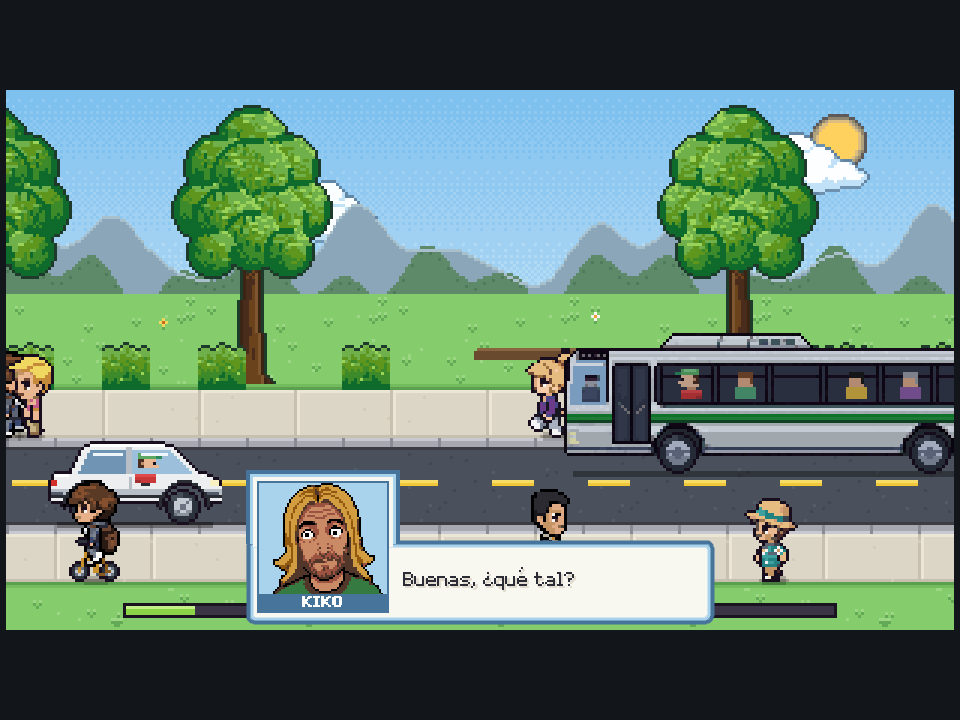
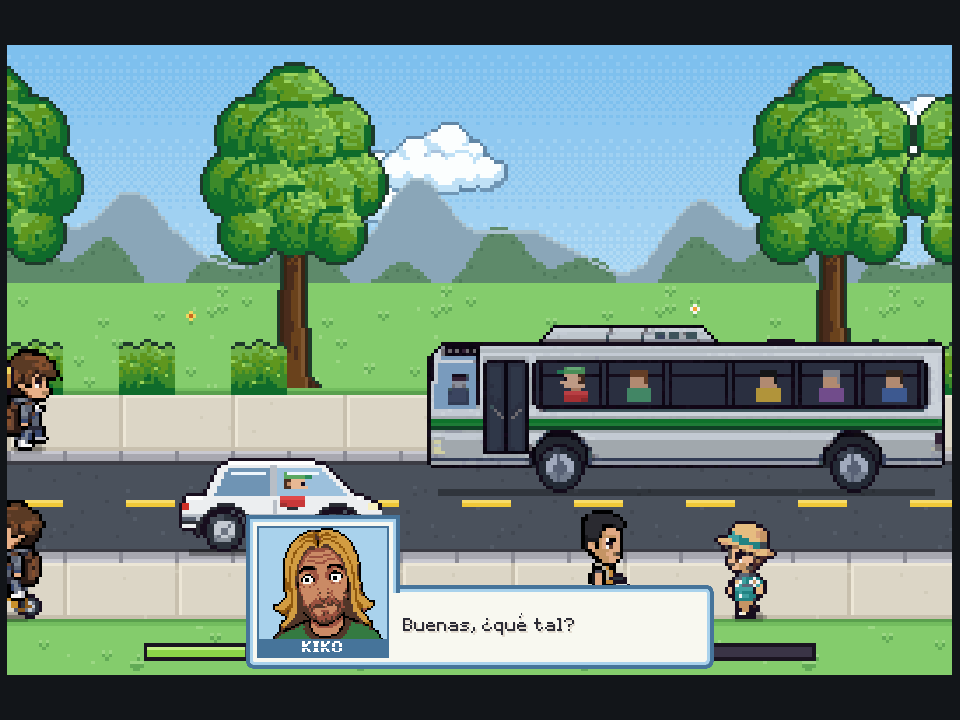
UI: el saliente del busto sin escalón en la unión (90° de verdad)
El pie del saliente baja a SAL_PIE (5 u) por dentro del borde de arriba
del cuadro, pasada la curva de esa esquina (radio 4 de la línea y el
filete, 4,5 del fondo), así que no asoma ni medio píxel de ella y la
unión queda recta; la línea y el filete acaban a 4 u, donde sus iguales
del canto horizontal del cuadro ya van rectos.

Capturas de docs regeneradas y CHANGELOG y notas al día.

Claude-Session: https://claude.ai/code/session_01WWCwQsjgK3rvw6gQoSEGYZ

diff --git a/ribera-verde/CLAUDE.md b/ribera-verde/CLAUDE.md
@@ -151,7 +151,7 @@ Juego web de un solo archivo: HTML, CSS y JavaScript sin frameworks ni dependenc
 - **Licencias de terceros (0.74):** CRÉDITOS → LICENCIAS trae Godot (MIT), las tres fuentes con su texto entero y el bloque de las bibliotecas de Android del AAB (Play Billing, Play Games v2, AndroidX y Sentry) con sus avisos y el texto de la Apache 2.0 y de la MIT (`godot/licencias/`, en el `include_filter` del export); prueba `tests/licencias.gd`.
 - **El cuadro de texto, de 4 líneas como mucho (0.74, lo pidió el usuario: «que el cuadro de texto únicamente pueda tener máximo 4 líneas… o igual bajarle un poco el tamaño de la letra»; con `Datos.CAL`):** la caja mide siempre `DLG_LINEAS` = 4 líneas (`_pon_dlg_txt`) y lo que no cabe se parte en páginas que se pasan con A (`paginas_dlg`, desde `say`), cortando por palabras; si una página sigue sin caber, el cuerpo baja de `DLG_FS` (9,5 u) a `DLG_FS_MIN` (7,5 u) de medio en medio con el ancho ya medido del Label (`_mide_dlg`, desde `_coloca`), y si ni al mínimo cabe se quita el tope de alto y la caja crece, que es mejor que cortar texto; las líneas se cuentan como las parte el Label, por palabras y contando las vacías (`_lineas_dlg`). Prueba `tests/dialogo_lineas.gd` (los 120 textos más largos del juego, con retrato y sin él, página a página, con `get_line_count`).
 - **El cuadro de texto y el menú (0.74, con `Datos.CAL`):** la cabecera del menú arranca en la misma columna que las etiquetas (espaciador de `10 * us + ic_w`, con la separación del HBox a 0: el tema metía 4 u) y su texto de la derecha acaba donde las cifras (la fila las pone pegadas al borde, así que ahí no va espaciador); `ic_w` se calcula antes de pintar el título. La ficha entera (marco y cinta del nombre) va centrada en alto en la caja, con el reparto redondeado (`roundf` en `_coloca`) y el alto del cuadro redondeado a un múltiplo de 4 u en `_pon_dlg_txt`, para que la caja mida un número par de u y el aire de arriba y el de abajo sean iguales al píxel (40 y 40, antes 40 y 36); el aire de la izquierda no es una constante, es el que le queda a la ficha por arriba y por abajo (`_aire_ficha`, del alto previsto del cuadro de 4 líneas con `_alto_dlg_u`; `RETRATO_M` 8 u es solo el mínimo), así que el busto queda a la misma distancia de los tres cantos en cualquier resolución (lo pidió el usuario: «desde el borde hasta el sprite tendría que haber la misma distancia que del sprite arriba y del sprite abajo»; a 2400 × 1080, 37/37/37 px) y el margen del texto sale de ese mismo aire (`_ancho_dlg`, para que la paginación cuadre): bajarla media cinta para igualar el eje del busto con el del texto se probó y a la vista quedaba peor —la cinta se pegaba al borde de abajo—, así que se quitó (lo dijo el usuario: «el sprite no está centrado donde debería… hay píxeles de aire que no los cuentas»); `tests/capturas_ui.gd` mide el aire de arriba y el de abajo de la ficha y la caja lleva 11 u de margen vertical (antes 8) para que el texto tenga aire como la foto. El texto del diálogo va centrado en la caja (`vertical_alignment` + `size_flags_vertical` en `_estilos`: el alto lo manda el busto) y la máquina de escribir descubre las letras con `visible_characters`, no reescribiendo `dlg_txt.text`, para que el bloque no se mueva.
-- **El cuadro del diálogo con busto, a la medida, y el contorno que rodea la foto (con `Datos.CAL`):** con retrato, el alto mínimo del cuadro lo ponía la ficha (`rw + 2 + 2 · RETRATO_M`), así que medía 82 u dijera lo que dijera; ahora el mínimo es el mismo con busto y sin él (24 u) y el alto lo manda el texto (medido: 42 u con una línea, 54 con dos, 78-82 con cuatro). La ficha deja de ir centrada en alto y se ancla al pie del cuadro, a `RETRATO_M` del canto por la izquierda y por abajo (`RETRATO_M` = `SAL_CANTO` 3,5 + `SAL_AIRE` 2 = 5,5 u, para que el saliente caiga justo en el lado izquierdo del cuadro); el busto que no cabe asoma por arriba y el contorno sube a rodearlo (`dlg_sal`, un `Panel` entre el cuadro y la ficha en el árbol, con la clase `Saliente`: las tres capas de `Caja` —línea 2 u, filete 1,5, fondo— sin el canto de abajo, desde `SAL_AIRE + SAL_CANTO` por encima del marco hasta `SAL_CANTO` por debajo del borde de arriba del cuadro, cuyo canto tapa). Las esquinas y el ángulo de la unión son de 90° (lo dijo el usuario: «la esquina y el ángulo tiene que ser de 90 grados. No puede ser ahí como la mini entrada esa que tiene»): sin radio y con `anti_aliasing = false` (el redondeo y el suavizado dejaban medios tonos y una muesca en la unión), y la línea y el filete acaban 1,5 u antes del pie, justo donde doblan con los suyos del canto horizontal del cuadro. Cuando la página llena el cuadro, el busto cabe, `dlg_sal` se esconde y la caja es el rectángulo de siempre. `_aire_ficha` y `_alto_dlg_u` desaparecen (el margen es constante). Pruebas: `tests/retratos.gd` (482 comprobaciones: el pie, el aire de la izquierda, el busto asomando, el saliente pegado al lado izquierdo del cuadro con el mismo canto por los tres lados y el pie dentro, su sitio en el árbol, y el caso contrario con la página llena) y `tests/capturas_ui.gd` (lo mismo medido en las doce pantallas).
+- **El cuadro del diálogo con busto, a la medida, y el contorno que rodea la foto (con `Datos.CAL`):** con retrato, el alto mínimo del cuadro lo ponía la ficha (`rw + 2 + 2 · RETRATO_M`), así que medía 82 u dijera lo que dijera; ahora el mínimo es el mismo con busto y sin él (24 u) y el alto lo manda el texto (medido: 42 u con una línea, 54 con dos, 78-82 con cuatro). La ficha deja de ir centrada en alto y se ancla al pie del cuadro, a `RETRATO_M` del canto por la izquierda y por abajo (`RETRATO_M` = `SAL_CANTO` 3,5 + `SAL_AIRE` 2 = 5,5 u, para que el saliente caiga justo en el lado izquierdo del cuadro); el busto que no cabe asoma por arriba y el contorno sube a rodearlo (`dlg_sal`, un `Panel` entre el cuadro y la ficha en el árbol, con la clase `Saliente`: las tres capas de `Caja` —línea 2 u, filete 1,5, fondo— sin el canto de abajo, desde `SAL_AIRE + SAL_CANTO` por encima del marco hasta `SAL_PIE` (5 u) por debajo del borde de arriba del cuadro, pasada la curva de esa esquina, cuyo canto tapa entero). Las esquinas y el ángulo de la unión son de 90° (lo dijo el usuario: «la esquina y el ángulo tiene que ser de 90 grados. No puede ser ahí como la mini entrada esa que tiene»): sin radio y con `anti_aliasing = false` (el redondeo y el suavizado dejaban medios tonos y una muesca en la unión), y la línea y el filete acaban a 4 u del borde de arriba del cuadro, justo donde los suyos del canto horizontal ya van rectos. Cuando la página llena el cuadro, el busto cabe, `dlg_sal` se esconde y la caja es el rectángulo de siempre. `_aire_ficha` y `_alto_dlg_u` desaparecen (el margen es constante). Pruebas: `tests/retratos.gd` (482 comprobaciones: el pie, el aire de la izquierda, el busto asomando, el saliente pegado al lado izquierdo del cuadro con el mismo canto por los tres lados y el pie dentro, su sitio en el árbol, y el caso contrario con la página llena) y `tests/capturas_ui.gd` (lo mismo medido en las doce pantallas).
 - **Los cuadros de texto a la medida y la pantalla de inicio (0.80, con `Datos.CAL`):** el cuerpo del diálogo reserva las líneas que ocupa de verdad la página, de 1 a `DLG_LINEAS` (`_cuerpo_dlg` las cuenta al poner el texto, `_pon_dlg_txt(px, lineas)` fija el alto —múltiplo de 4 u—, `_alto_dlg_u` medía con las reservadas y el mínimo de la caja bajó de 44 a 24 u). Las líneas se cuentan con el servidor de texto, no con el Label, que aún no ha hecho el corte en el fotograma en que se le pone el texto (`_lineas_ts`: `get_multiline_string_size` con `BREAK_MANDATORY|WORD_BOUND|ADAPTIVE|TRIM_EDGE_SPACES`, cada `\n` por su cuenta, sobre el texto entero de la página y no sobre lo mecanografiado). En el título, el texto de cada pastilla va centrado al píxel (`roundf`) en el hueco que dejan las flechas ◀ ▶ y, si no cabe, se le baja el cuerpo (`_menu_titulo`); y un velo sobre la pantalla, más cerrado en la mitad de abajo, deja leer el rótulo y los botones sobre la calle del fondo (`_pinta_titulo`, `pantalla.get_global_rect()`). Pruebas: `tests/dialogo_lineas.gd` (597 páginas; altos 210 · 270 · 350 · 410 px sin busto) y `tests/titulo_ui.gd` (los píxeles del texto de los tres botones en la imagen: centrados a ±2 px y sin tocar las flechas).
 - **El maquetado de la interfaz (0.72, con `Datos.CAL`):** el menú de un `ask` se apoya encima del diálogo, no a 49 u del suelo (`_coloca` en `ui.gd`); el HUD se esconde mientras hay un menú `full` o `start` y vuelve al cerrarlo (`hud_tapado`: `hud_pon` lo respeta, que el bucle llama a `update_hud` cada fotograma); los mandos, más opacos para leerse sobre el mapa (`MANDO_ALFA`, `MANDO_CANTO`); la marca ▲▼ de los menús, de 8,5 u (`FLECHA_H`, `FLECHA_FS`); el pie de los menús reserva una línea, no dos (`desc_min()`); en las listas, las filas sin icono reservan su hueco y la flecha de las secciones («▸ Semillas») va en la columna del icono (`ic_w` en `_pinta_menu`); las cajas de vida del combate no se apartan de MÓVIL, oculto en combate (`be_r`). `tests/capturas_ui.gd` (12 pantallas) lo mide con `_mira_maquetado`: el menú no pisa el diálogo, el HUD no sale con el menú, las etiquetas de una lista arrancan en la misma columna y la marca ▲▼ mide 8 u o más.
 - **El aparcamiento, con entrada desde la calle (con `Datos.CAL`):** `montar_aparcamiento` (`calle.gd`) traza, cuando el rectángulo de 3 × 4 no toca ninguna vía (`APARC_VIA`: road, hormigón, pista, roto), un carril de una casilla desde la boca de su pasillo (x0 + 2, arriba; si no, abajo) hasta la vía más cercana o hasta una puerta de carretera del mapa (`_aparc_puertas`, `CARRETERAS.puertas`), por casillas que se andan, sin objetos y fuera de los edificios, de `APARC_CARRIL` como mucho; se guarda en `_aparc_c` y sin CAL vuelve el suelo de antes. El carril y el suelo del aparcamiento son `roadX` (el asfalto de cruce del mosaico): hasta la 0.74 eran `road`, que no existe en el atlas, y las casillas salían negras (lo vio el usuario: «¿Y ese pedazo de error en el mapa?»); `tests/suelo_negro.gd` comprueba en los 90 mapas montados que ninguna casilla de `g` se queda sin arte de suelo y sin un edificio que la tape. Y como las casillas de un edificio (`wall_`, `roofT_`, `roofB_`, `win_`, `door_`) no tienen arte de suelo, donde la fachada es transparente (el hueco entre las dos torres de la parroquia de Zorroza) salía el negro de debajo (lo vio el usuario: «el sprite de la iglesia está como mal hecho»): `_suelo_casilla` pinta antes el suelo de la casilla pisable más cercana, hacia abajo primero (`_tile_hay`, `_suelo_base` en `pinta.gd`); `tests/negro_render.gd` pinta 27 mapas enteros y no admite ni un cuadro liso de 8 × 8 muy oscuro. Un aparcamiento nuevo no necesita nada más; `tests/aparc_bilbao.gd` sigue pidiendo hueco con aire y, en los pueblos, a 12 casillas de la parada.

diff --git a/CLAUDE.md b/CLAUDE.md
@@ -95,7 +95,7 @@ informe técnico directo + código refactorizado, sin relleno.
 - La sala de cultivo de KAIA (lo pidió el usuario: «incluso molaría tener un cultivo finalmente en la nueva asociación de KAIA», «tiene que tener lógica con el suelo» y «como en casa, cultivo con carpas, pero más grandes de primeras… después como en la nave en esa misma habitación, ya con posibilidad de poner a alguien a trabajar ahí»; solo Godot, con `Datos.CAL`): por la puerta (15, 1) del club, con la licencia (`S.mar.lic`); pasillo con el suelo del club y zona de cultivo con el del grow (16 × 10); fase 1, hasta cuatro kits de carpa de 240 × 240 con dos LED de 720 W, extractor y goteo, nueve plazas, 3.180 € por la cuenta y al día siguiente, ordenables desde el cuadro solo sobre su suelo y sin solaparse (reglas `zona` y `solapa` en `cabe_pieza`); fase 2, la obra de 45.000 € (las carpas, de segunda mano al 40 %; 5 días) con seis mesas de la nave, tanque y riego, que lleva un trabajador de rol `kaia` (45 €/día) hasta el almacén de KAIA (`tools/kaia_cult.py`, `src/kaiacult.gd`, `S.kc`, `kaia_carpa.py`); prueba `tests/kaia_cult.gd`. Nada encima de nada (lo pidió el usuario: «No quiero que ningún objeto de pared o suelo se superponga sobre otro»): `tests/solapes.gd` en todos los interiores y `tools/solapes.py`.
 - KAIA por niveles, madres, sala fría, manicura, billar y translúcido (lo pidió el usuario; solo Godot, con `Datos.CAL`): KAIA con cuatro carpas de 2 × 2, dos de 4 × 2 y una de 4 × 4 que conviven (`KAIA_CULT.niv`, `kc_sube`, `kc_off`) y luego la carpa de sala que se entra (`f2.carpa`, `cult-sala`) con ocho mesas de flujo y reflujo, su drenaje (`tubos_dren`) y la vista de cada mesa (`vista_mesas`, `MESA_KV`; arte del generador de sprites en `sprgen_kaia.py`); rehecha como pidió el usuario: las carpas cerradas como las de casa (`kaia_carpa.py`, de la de 150), su tubo a la pared (`tubos_ext`), la sala como la nave (`mesaN`), el riego y el drenaje sin cruzar pasillos (`red_riego`, `tubos_dren`) y la vista de la mesa de frente con el LED doble de casa (`MESAK_*`); la carpa de sala a su medida por fuera y la habitación por dentro, con el tanque, el programador y el depósito de recogida fuera, en el paso de delante (`f2.fuera`, `red_fuera`, `kaia_riego.py`), y el depósito del goteo de cada carpa a su lado, fuera de ella (`dep`, `depK`/`depKd`, `tubos_dep`); las carpas con puerta lateral, ventanas de malla y la boca del intractor (lo pidió el usuario: «en esas carpas pues hay puertas laterales, ventilaciones, agujeros para extractor, intractor y eso»), cada depósito a su tamaño (100, 200 y 400 L: `depK`, `depKm`, `depKl`) y, en la vista C, la puerta, la ventana y el intractor por el lado con más sitio libre junto a la carpa (si empatan, el del depósito) y el extractor arriba por el otro, donde sale su tubo (lo pidió el usuario: «dependiendo de dónde esté la mesa colocada»; `kc_lado`, `kc_servicio`, `kc_filtro`, `kc_ux`, `kcsi`/`kcmi`/`kcli`, a mano en `tools/sprites/a-mano/kaia_vc.py`; el depósito, fuera: solo su manguera; prueba `tests/kaia_vista.gd`); las 49 escenas de las extracciones, del laboratorio y de la manicura, animadas con el generador de sprites (`animate_image`, 4 fotogramas; `kaia_pl_anim.png`, `Escena.pl_t`, `anim.json`); el armario de las madres por dentro (`vista_madres`); la sala fría del sótano con las máquinas de extracción y más rendimiento (`FRIA`, `tools/sala_fria.py`, `src/salafria.gd`); la manicura en tres barras con su escena (`MANICURA.pasos`, escena `mani`); el billar con puntería fina, efecto en la blanca y rival que se ajusta (`EFECTO`, `B8_PASO`, `S.b8aj`); y lo que tapa al protagonista al 45 % (`tapa_pj`) —las piezas seguidas de un mueble, juntas, y sin destellos: `tapa_obj`, `_tapa_mem`, `TAPA_FILA`; prueba `tests/tapa_mapas.gd`—; pruebas `tests/sala_fria.gd`, `manicura.gd`, `madres_vista.gd`, `billar8_tiro.gd`, `translucido.gd`.
 - Los cuadros de texto a la medida y la pantalla de inicio (0.80, lo dijo el usuario: «los cuadros de texto no se adaptan al texto cuando es menor del máximo no?» y «la pantalla de inicio deja que desear además de que los textos no está centrados»; solo Godot, con `Datos.CAL`): el cuadro de diálogo reserva las líneas que ocupa de verdad la página, de 1 a `DLG_LINEAS` (`_cuerpo_dlg`, `_pon_dlg_txt(px, lineas)`, `_alto_dlg_u`, `_lineas_ts` con el servidor de texto), y en el título el texto de cada pastilla va centrado al píxel en el hueco de las flechas ◀ ▶, con un velo sobre la calle del fondo para que se lea (`_menu_titulo`, `_pinta_titulo`); pruebas `tests/dialogo_lineas.gd` (597 páginas) y `tests/titulo_ui.gd` (nueva).
-- El cuadro del diálogo con busto, a la medida y con el contorno rodeando la foto (lo dijo el usuario: «me da la sensación que el cuadro de texto es siempre igual y que se adapta el texto al cuadro. Pero tiene que ser quid pro quo» y «la que más me cuadra es la C, pero… que haga como el contorno por encima y por el lado izquierdo y derecho de la foto»; solo Godot, con `Datos.CAL`): con retrato, el alto del cuadro ya no lo manda la ficha (de 82 u siempre a 42 · 54 · 78 según el texto); la ficha se ancla al pie, a `RETRATO_M` (`SAL_CANTO` 3,5 + `SAL_AIRE` 2) del canto por la izquierda y por abajo, y el busto que no cabe asoma por arriba con el contorno subiendo a rodearlo por arriba y por los dos lados (`dlg_sal`, clase `Saliente` en `ui.gd`: las tres capas de la caja sin el canto de abajo, el lado izquierdo en el del cuadro y el pie metido en él; esquinas y ángulo de 90°, sin radio ni antialias, lo dijo el usuario: «la esquina y el ángulo tiene que ser de 90 grados»; sin saliente cuando el busto cabe); pruebas `tests/retratos.gd` (482) y `tests/capturas_ui.gd`.
+- El cuadro del diálogo con busto, a la medida y con el contorno rodeando la foto (lo dijo el usuario: «me da la sensación que el cuadro de texto es siempre igual y que se adapta el texto al cuadro. Pero tiene que ser quid pro quo» y «la que más me cuadra es la C, pero… que haga como el contorno por encima y por el lado izquierdo y derecho de la foto»; solo Godot, con `Datos.CAL`): con retrato, el alto del cuadro ya no lo manda la ficha (de 82 u siempre a 42 · 54 · 78 según el texto); la ficha se ancla al pie, a `RETRATO_M` (`SAL_CANTO` 3,5 + `SAL_AIRE` 2) del canto por la izquierda y por abajo, y el busto que no cabe asoma por arriba con el contorno subiendo a rodearlo por arriba y por los dos lados (`dlg_sal`, clase `Saliente` en `ui.gd`: las tres capas de la caja sin el canto de abajo, el lado izquierdo en el del cuadro y el pie metido en él hasta `SAL_PIE` 5 u, pasada la curva de la esquina; esquinas y ángulo de 90°, sin radio ni antialias, lo dijo el usuario: «la esquina y el ángulo tiene que ser de 90 grados»; sin saliente cuando el busto cabe); pruebas `tests/retratos.gd` (482) y `tests/capturas_ui.gd`.
 - El maquetado de la interfaz, repasado (0.72, lo preguntó el usuario: «el maquetado de la UI sería posible analizarlo y mejorarlo?»; solo Godot, con `Datos.CAL`): el menú de una pregunta encima del diálogo y no tapándolo, el HUD escondido mientras hay un menú que ya dice la fecha y el dinero, los mandos opacos para leerse sobre el mapa, la marca ▲▼ de los menús más grande, el pie de los menús sin la línea de aire reservada y las listas con el borde izquierdo recto (`ui.gd`; `tests/capturas_ui.gd`, 12 pantallas con `_mira_maquetado`, 0 cortes; con el código de antes, 9).
 - Ni un agujero negro en el suelo (lo vio el usuario: «¿Y ese pedazo de error en el mapa?»; solo Godot, con `Datos.CAL`): el carril de entrada y el suelo del aparcamiento se ponían con la clave `road`, que no existe en el atlas, y `_arte_tile` dejaba la casilla sin pintar (negra); ahora `roadX`, el asfalto de cruce del mosaico, que sigue contando como vía (`APARC_VIA` va por `begins_with`); prueba `tests/suelo_negro.gd`: en los 90 mapas montados, ninguna casilla de `g` sin arte de suelo y sin edificio que la tape; y donde la fachada de un edificio es transparente (el hueco entre las torres de la parroquia de Zorroza) también salía el negro (lo vio el usuario: «el sprite de la iglesia está como mal hecho»): `_suelo_casilla` pinta antes el suelo de la casilla pisable más cercana (`_tile_hay`, `_suelo_base` en `pinta.gd`), con `tests/negro_render.gd` (27 mapas enteros pintados, ni un cuadro liso de 8 × 8 oscuro).
 - El letrero de los clubs, entero (lo dijo el usuario: «pues el letrero es importante»; solo Godot): el sprite de la puerta cubre las 32 últimas filas del edificio, así que ningún rótulo de fachada puede caer ahí; los de encima de la puerta suben con su fachada (`FACHADA` en `tools/sprites/a-mano/puertas_altas.py`: también los clubs de Puerto Viejo y Valdehierro, con su farol y su aplique) y el del Casco Viejo pasa al estuco de encima del portal (`locales.py`, donde las puertas se recortan ya en su sitio, sin `CORRE`); `ROTULOS` en `tests/puertas_libres.gd` lo comprueba.

diff --git a/ribera-verde/CHANGELOG.md b/ribera-verde/CHANGELOG.md
@@ -6,7 +6,7 @@
 
 - **Con busto, el cuadro ya no mide siempre lo mismo.** Desde la 0.80 el cuadro se ajustaba a las líneas del texto, pero solo sin retrato: con busto, el alto mínimo lo ponía la ficha (`rw + 2 + 2 · RETRATO_M`), así que cualquier frase salía en una caja de 82 u con el texto flotando. Ahora el mínimo es el mismo con busto y sin él (24 u con `Datos.CAL`) y el alto lo manda el cuerpo: medido, 42 u con una línea, 54 con dos y 78-82 con cuatro, donde antes eran 82 siempre.
 - **La ficha, anclada al pie.** El retrato deja de ir centrado en alto: se apoya en el pie del cuadro, a `RETRATO_M` del canto por la izquierda y por abajo, con su marco y la cinta del nombre como siempre. Lo que no cabe en lo que mide el cuadro asoma por arriba, que es lo que el usuario eligió de las tres variantes que se le mandaron.
-- **Y el contorno sube a rodearlo.** El busto no se recorta ni queda cruzado por la línea de arriba del cuadro: un saliente (`dlg_sal`, clase `Saliente`) pinta las tres capas de la caja —línea `#46749a` de 2 u, filete `#a9d2ec` de 1,5 y fondo— sin el canto de abajo, desde encima de la ficha hasta dentro del cuadro. Su fondo tapa la línea de arriba en ese tramo y sus dos verticales se juntan con ella, así que el contorno sale de una pieza, con el lado izquierdo del saliente justo en el lado izquierdo del cuadro (`SAL_CANTO` 3,5 u de canto + `SAL_AIRE` 2 de aire = los 5,5 de `RETRATO_M`). Las esquinas y el ángulo de la unión, de 90° (lo dijo el usuario: «la esquina y el ángulo tiene que ser de 90 grados. No puede ser ahí como la mini entrada esa que tiene»): el saliente va sin redondeo y con `anti_aliasing = false` —el radio y el suavizado dejaban medios tonos y una muesca—, su pie cae a `SAL_CANTO` del borde de arriba del cuadro y cada capa acaba donde dobla con la suya del canto horizontal (línea y filete, 1,5 u antes del pie). Cuando la página llena el cuadro y el busto cabe entero, el saliente se esconde y la caja es el rectángulo de siempre.
+- **Y el contorno sube a rodearlo.** El busto no se recorta ni queda cruzado por la línea de arriba del cuadro: un saliente (`dlg_sal`, clase `Saliente`) pinta las tres capas de la caja —línea `#46749a` de 2 u, filete `#a9d2ec` de 1,5 y fondo— sin el canto de abajo, desde encima de la ficha hasta dentro del cuadro. Su fondo tapa la línea de arriba en ese tramo y sus dos verticales se juntan con ella, así que el contorno sale de una pieza, con el lado izquierdo del saliente justo en el lado izquierdo del cuadro (`SAL_CANTO` 3,5 u de canto + `SAL_AIRE` 2 de aire = los 5,5 de `RETRATO_M`). Las esquinas y el ángulo de la unión, de 90° (lo dijo el usuario: «la esquina y el ángulo tiene que ser de 90 grados. No puede ser ahí como la mini entrada esa que tiene»): el saliente va sin redondeo y con `anti_aliasing = false` —el radio y el suavizado dejaban medios tonos y una muesca—, su pie baja a `SAL_PIE` (5 u) por dentro del borde de arriba del cuadro, pasada la curva de esa esquina —radio 4 de la línea y el filete, 4,5 del fondo—, de modo que no asoma ni medio píxel de ella, y la línea y el filete acaban a 4 u, donde sus iguales del cuadro ya van rectas. Cuando la página llena el cuadro y el busto cabe entero, el saliente se esconde y la caja es el rectángulo de siempre.
 - **Probado.** `tests/retratos.gd` 482 comprobaciones, 0 fallos (la ficha en el pie y con el mismo aire a la izquierda, el busto asomando, el saliente a la vista, pegado al lado izquierdo del cuadro, con el mismo canto por los tres lados, el pie metido en la caja y su sitio en el árbol; y el caso contrario: con la página llena el cuadro crece, el busto cabe y el saliente desaparece). `tests/capturas_ui.gd` mide lo mismo en las doce pantallas.
 
 ### El reloj, igual para todos (lo pidió el usuario: «la velocidad a la que va el juego no puede ser seleccionable, o sea, tiene que ser siempre la misma… porque si no, el que juega el juego puede ponerla más rápido, más lento y le da tiempo más a hacer cosas durante el día o menos»)
